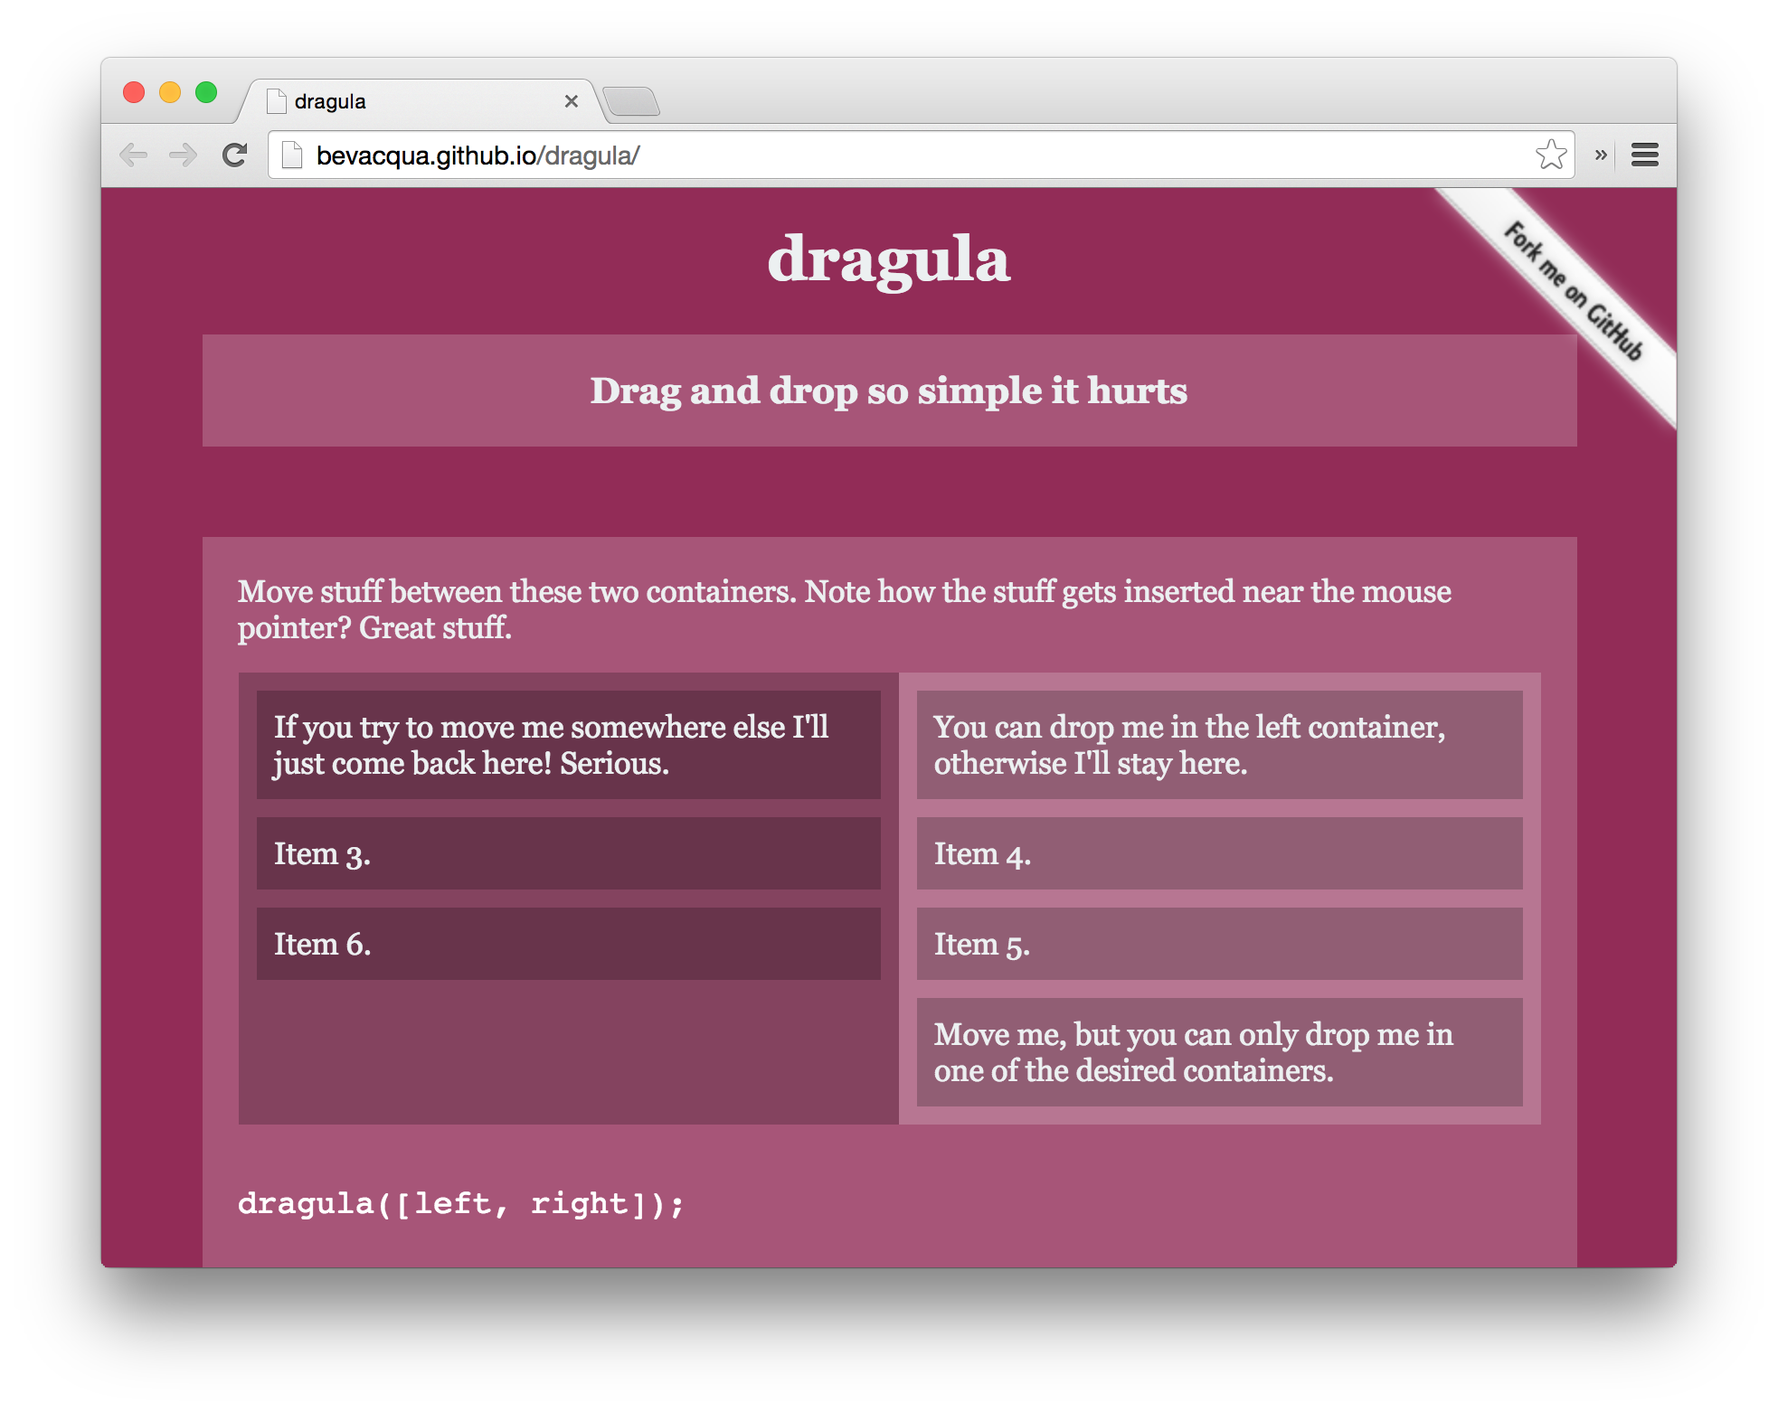
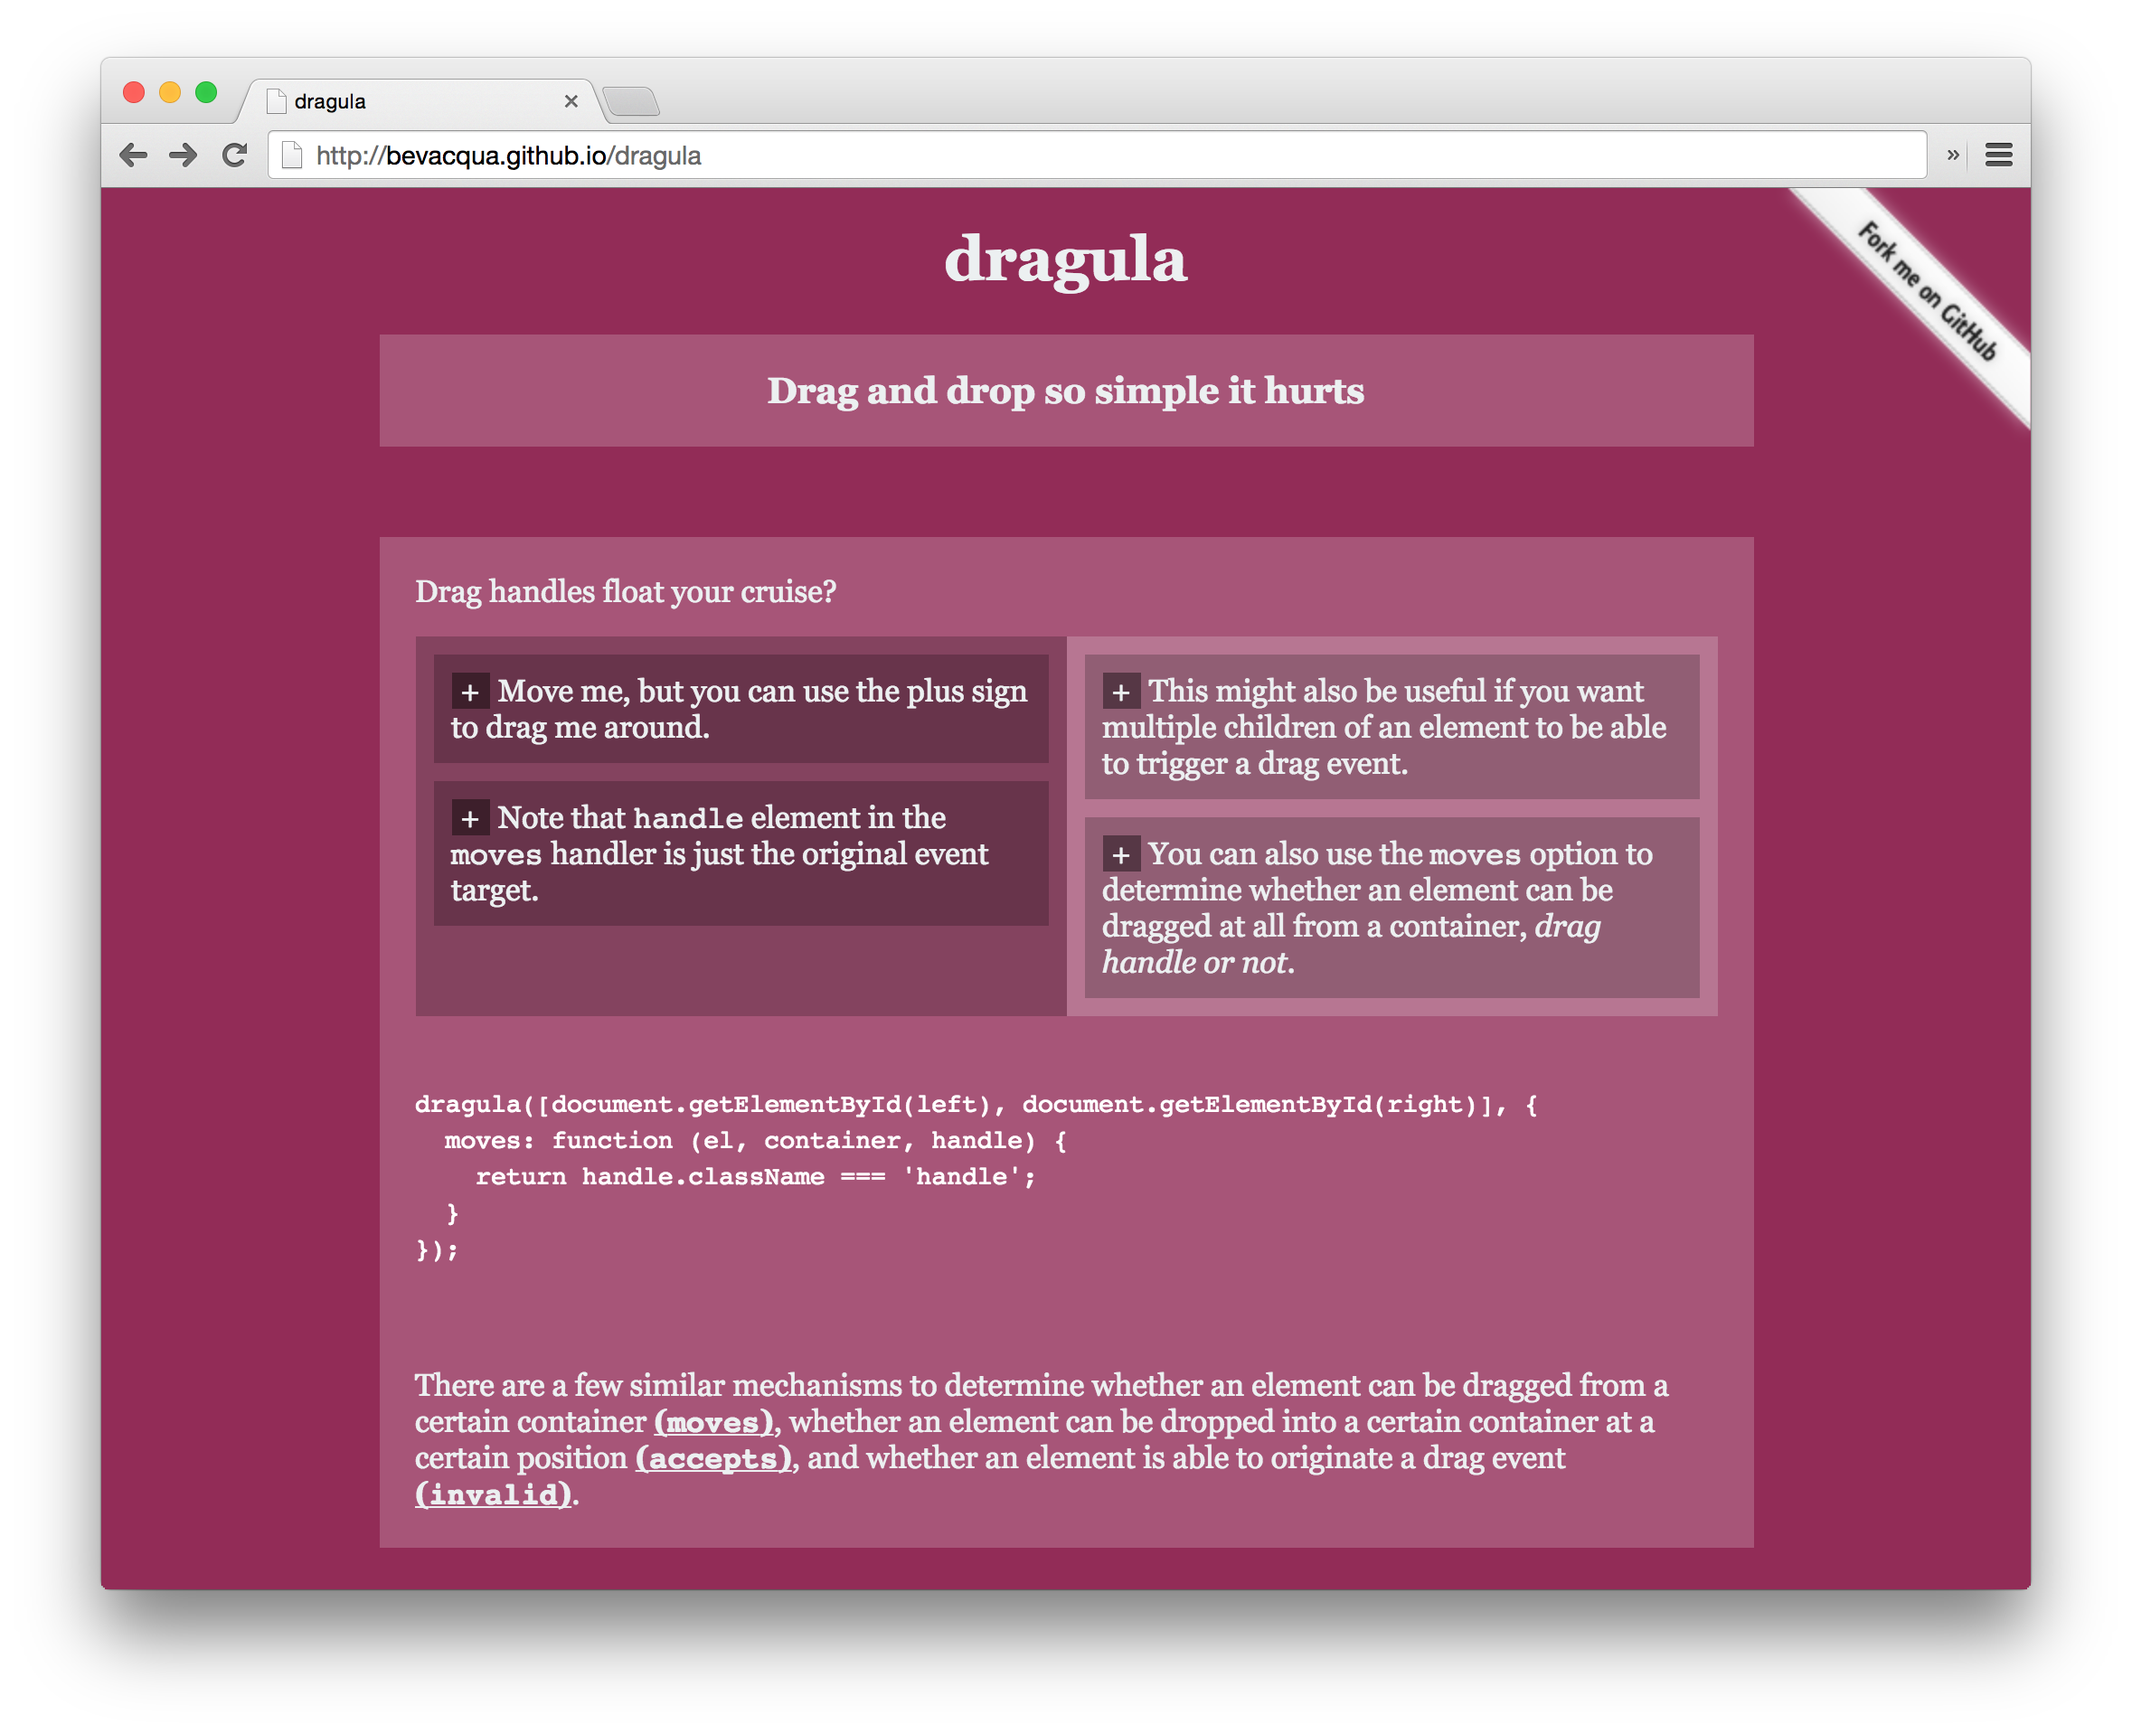
updated demo screenshot and copy

diff --git a/index.html b/index.html
@@ -12,15 +12,14 @@
     <label for='hy'>Move stuff between these two containers. Note how the stuff gets inserted near the mouse pointer? Great stuff.</label>
     <div class='wrapper'>
       <div id='left1' class='container'>
-        <div>Move me, but you can only drop me in one of these containers.</div>
-        <div>If you try to drop me somewhere other than these containers, I'll just come back.</div>
-        <div>Item 3.</div>
-        <div>Item 6.</div>
+        <div>You can move these elements between these two containers</div>
+        <div>Moving them anywhere else isn't quite possible</div>
+        <div>There's also the possibility of moving elements around in the same container, changing their position</div>
       </div>
       <div id='right1' class='container'>
-        <div>You can drop me in the left container, otherwise I'll stay here.</div>
-        <div>Item 4.</div>
-        <div>Item 5.</div>
+        <div>This is the default use case. You only need to specify the containers you want to use</div>
+        <div>More interactive use cases lie ahead</div>
+        <div>Make sure to check out the <a href='https://github.com/bevacqua/dragula#readme'>documentation on GitHub!</a></div>
       </div>
     </div>
     <pre>
@@ -30,85 +29,94 @@ dragula([document.getElementById(left), document.getElementById(right)]);
     </pre>
   </div>
   <div class='parent'>
-    <label for='hy'>Add some fantastic events!</label>
+    <label for='hy'>There are plenty of events along the lifetime of a drag event. Check out <a href='https://github.com/bevacqua/dragula#drakeon-events'>all of them</a> in the docs!</label>
     <div class='wrapper'>
       <div id='left3' class='container'>
-        <div>Move me, but you can only drop me in one of these containers.</div>
-        <div>If you try to drop me somewhere other than these containers, I'll just come back.</div>
-        <div>Item 3.</div>
-        <div>Item 6.</div>
+        <div>As soon as you start dragging an element, a <code>drag</code> event is fired</div>
+        <div>Whenever an element is cloned because <code>copy: true</code>, a <code>cloned</code> event fires</div>
+        <div>The <code>shadow</code> event fires whenever the placeholder showing where an element would be dropped is moved to a different container or position</div>
+        <div>A <code>drop</code> event is fired whenever an element is dropped anywhere other than its origin <em>(where it was initially dragged from)</em></div>
       </div>
       <div id='right3' class='container'>
-        <div>You can drop me in the left container, otherwise I'll stay here.</div>
-        <div>Item 4.</div>
-        <div>Item 5.</div>
+        <div>If the element gets removed from the DOM as a result of dropping outside of any containers, a <code>remove</code> event gets fired</div>
+        <div>A <code>cancel</code> event is fired when an element would be dropped onto an invalid target, but retains its original placement instead</div>
+        <div>Lastly, a <code>dragend</code> event is fired whenever a drag operation ends, regardless of whether it ends in a cancellation, removal, or drop</div>
       </div>
     </div>
     <pre>
       <code>
-dragula([document.getElementById(left), document.getElementById(right)]).on('drag', function (el) {
-  el.className = el.className.replace(' animazing', '');
-}).on('drop', function (el) {
-  setTimeout(function () {
-    el.className += ' animazing';
-  }, 0);
+dragula([document.getElementById(left), document.getElementById(right)])
+  .on('drag', function (el) {
+    el.className = el.className.replace(' animazing', '');
+  })
+  .on('drop', function (el) {
+    setTimeout(function () {
+      el.className += ' animazing';
+    }, 0);
+  });
+      </code>
+    </pre>
+  </div>
+  <div class='parent'>
+    <label for='hy'>Need to be able to quickly delete stuff when it spills out of the chosen containers? Note how you can easily sort the items in any containers by just dragging and dropping.</label>
+    <div class='wrapper'>
+      <div id='single1' class='container'>
+        <div>Banana Boat</div>
+        <div>Orange Juice</div>
+        <div>Cuban Cigar</div>
+        <div>Terrible Comedian</div>
+        <div>Anxious Cab Driver</div>
+        <div>Thriving Venture</div>
+        <div>Calm Clam</div>
+      </div>
+    </div>
+    <pre>
+      <code>
+dragula([document.getElementById(single)], {
+  removeOnSpill: true
 });
       </code>
     </pre>
   </div>
   <div class='parent'>
-    <label for='hy'>Need to be able to quickly delete stuff when it spills out of the chosen containers?</label>
-    <div class='wrapper'>
-      <div id='single1' class='container'>
-        <div>Move me, but you can only drop me somewhere in this container.</div>
-        <div>If you try to drop me somewhere other than here, I'll die a fiery death.</div>
-        <div>Item 3.</div>
-        <div>Item 6.</div>
-        <div>Item 4.</div>
-        <div>Item 5.</div>
-      </div>
-    </div>
-    <pre>
-      <code>
-dragula([document.getElementById(single)], { removeOnSpill: true });
-      </code>
-    </pre>
-  </div>
-  <div class='parent'>
-    <label for='hy'>By default, dropping an element outside of any known containers will keep the element in the last place it hovered over. You can make elements go back home if they're dropped outside of known containers, too.</label>
+    <label for='hy'>By default, dropping an element outside of any known containers will keep the element in the last place it went over. You can make elements go back to origin if they're dropped outside of known containers, too.</label>
     <div class='wrapper'>
       <div id='left4' class='container'>
-        <div>Move me, but you can only drop me in one of these containers.</div>
-        <div>If you try to drop me somewhere other than these containers, I'll just come back.</div>
-        <div>Item 3.</div>
-        <div>Item 6.</div>
+        <div>Moving items between containers works as usual</div>
+        <div>If you try to drop an item outside of any containers, though, it'll retain its original position</div>
+        <div>When that happens, a <code>cancel</code> event will be raised</div>
       </div>
       <div id='right4' class='container'>
-        <div>You can drop me in the left container, otherwise I'll stay here.</div>
-        <div>Item 4.</div>
-        <div>Item 5.</div>
+        <div>Note that the dragged element will go back to the place you originally dragged it from, even if you move it over other containers</div>
+        <div>This is useful if you want to ensure drop events only happen when the user intends for them to happen explicitly, avoiding surprises</div>
       </div>
     </div>
     <pre>
       <code>
-dragula([document.getElementById(left), document.getElementById(right)], { revertOnSpill: true });
+dragula([document.getElementById(left), document.getElementById(right)], {
+  revertOnSpill: true
+});
       </code>
     </pre>
   </div>
   <div class='parent'>
-    <label for='hy'>Copying stuff is great too</label>
+    <label for='hy'>Copying stuff is common too, so we made it easy for you.</label>
     <div class='wrapper'>
       <div id='left2' class='container'>
-        <div>Move me, but you can only drop me in one of these containers.</div>
-        <div>If you try to drop me somewhere other than these containers, I'll just come back.</div>
+        <div>When elements are copyable, they can't be sorted in their origin container</div>
+        <div>Copying prevents original elements from being dragged. A copy gets created and <em>that</em> gets dragged instead</div>
+        <div>Whenever that happens, a <code>cloned</code> event is raised</div>
       </div>
       <div id='right2' class='container'>
-        <div>You can drop me in the left container, otherwise I'll stay here.</div>
+        <div>Note that the clones get destroyed if they're not dropped into another container</div>
+        <div>You'll be dragging a copy, so when they're dropped into another container you'll see the duplication.</div>
       </div>
     </div>
     <pre>
       <code>
-dragula([document.getElementById(left), document.getElementById(right)], { copy: true });
+dragula([document.getElementById(left), document.getElementById(right)], {
+  copy: true
+});
       </code>
     </pre>
   </div>
@@ -117,8 +125,11 @@ dragula([document.getElementById(left), document.getElementById(right)], { copy:
     <div class='wrapper'>
       <div id='left5' class='container'>
         <div><span class='handle'>+</span>Move me, but you can use the plus sign to drag me around.</div>
+        <div><span class='handle'>+</span>Note that <code>handle</code> element in the <code>moves</code> handler is just the original event target.</div>
       </div>
       <div id='right5' class='container'>
+        <div><span class='handle'>+</span>This might also be useful if you want multiple children of an element to be able to trigger a drag event.</div>
+        <div><span class='handle'>+</span>You can also use the <code>moves</code> option to determine whether an element can be dragged at all from a container, <em>drag handle or not</em>.</div>
       </div>
     </div>
     <pre>
@@ -130,22 +141,21 @@ dragula([document.getElementById(left), document.getElementById(right)], {
 });
       </code>
     </pre>
+    <div>There are a few similar mechanisms to determine whether an element can be dragged from a certain container <a href='https://github.com/bevacqua/dragula#optionsmoves'>(<code>moves</code>)</a>, whether an element can be dropped into a certain container at a certain position <a href='https://github.com/bevacqua/dragula#optionsaccepts'>(<code>accepts</code>)</a>, and whether an element is able to originate a drag event <a href='https://github.com/bevacqua/dragula#optionsinvalid'>(<code>invalid</code>)</a>.</div>
   </div>
   <div class='parent'>
     <label><strong>Click or Drag!</strong> Fires a click when the mouse button is released within <code>delay</code>, otherwise a drag event is fired.</label>
     <div class='wrapper'>
       <div id='single2' class='container'>
-        <div>Move me, but you can only drop me somewhere in this container.</div>
-        <div>If you try to drop me somewhere other than here, I'll die a fiery death.</div>
-        <div>Item 3.</div>
-        <div>Item 6.</div>
-        <div>Item 4.</div>
-        <div>Item 5.</div>
+        <div>Try dragging this element. There's a barely perceptible <em>"jank"</em> if you move it too fast, but it still works seamlessly <em>(and you'll barely notice in practice)</em>.</div>
+        <div>Clicking on these elements triggers a regular <code>click</code> event you can listen to.</div>
+        <div>This is useful if you have elements that can be both clicked or dragged.</div>
+        <div>The <code>delay</code> indicates how long an element can be left-clicked for (and released) for the event to be considered a <code>click</code> rather than a <code>drag</code>.</div>
       </div>
     </div>
     <pre>
       <code>
-        dragula({ containers: [document.getElementById(single)], delay: 200 });
+        dragula([document.getElementById(single)], { delay: 200 });
       </code>
     </pre>
   </div>

diff --git a/example/example.css b/example/example.css
@@ -33,6 +33,9 @@ h3 {
   text-align: center;
 }
 
+a {
+  font-weight: bold;
+}
 a,
 a:hover {
   color: #ecf0f1;
